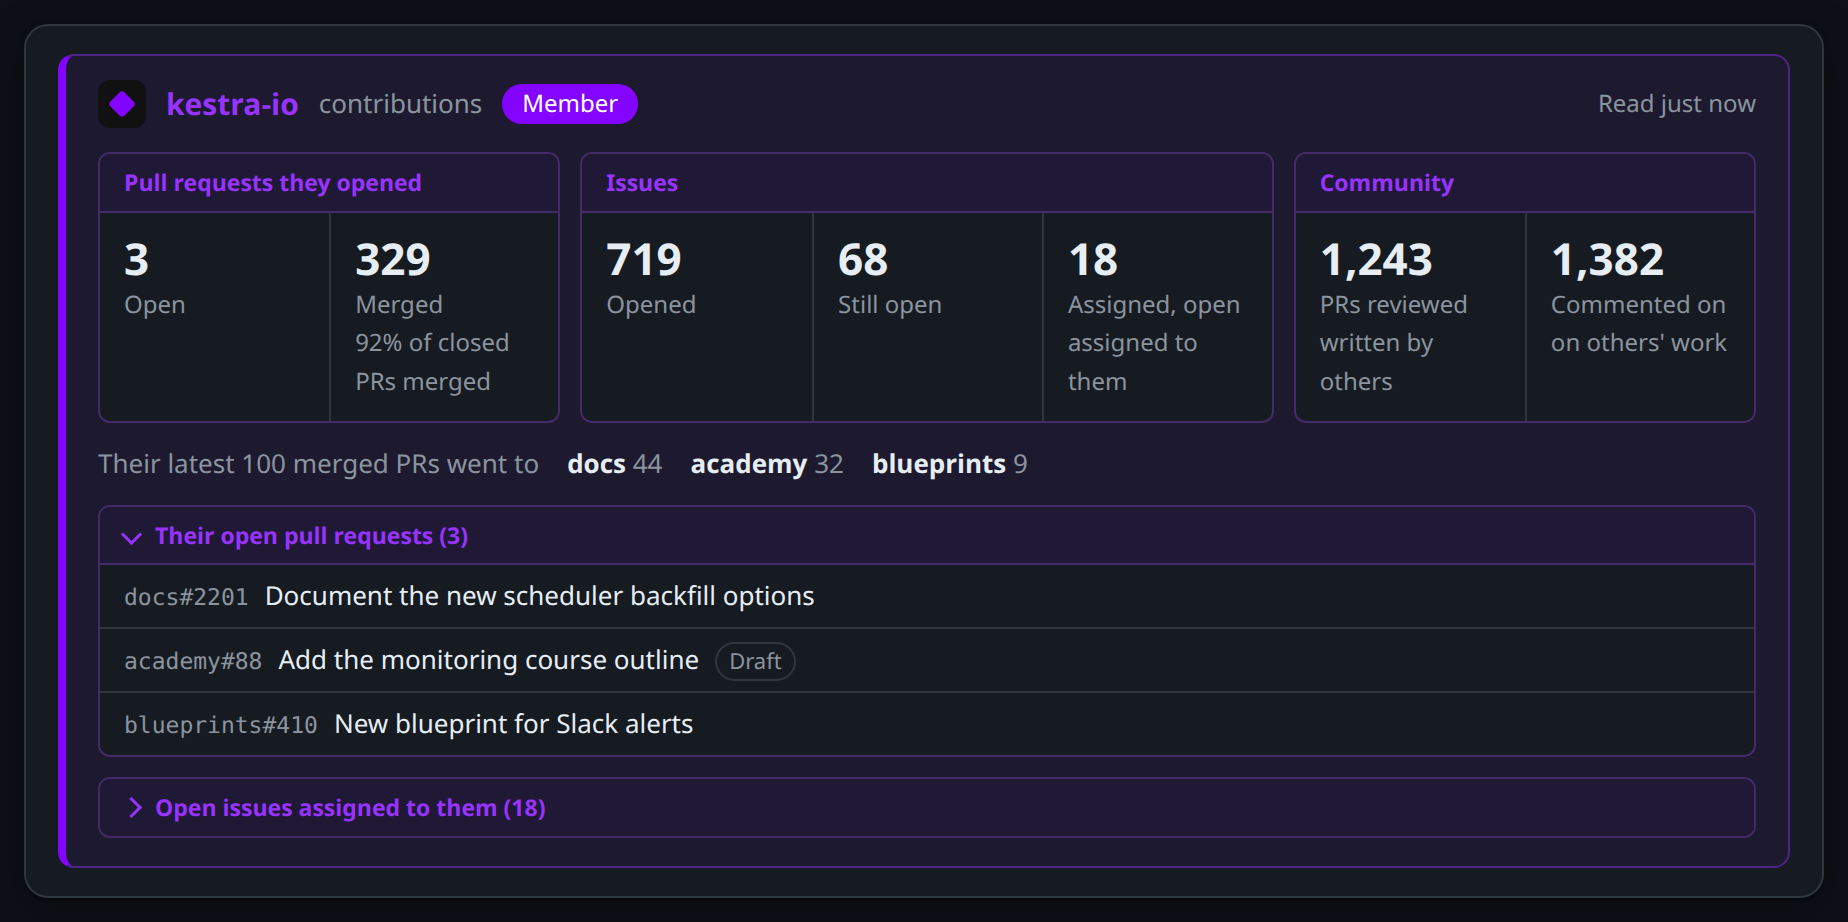
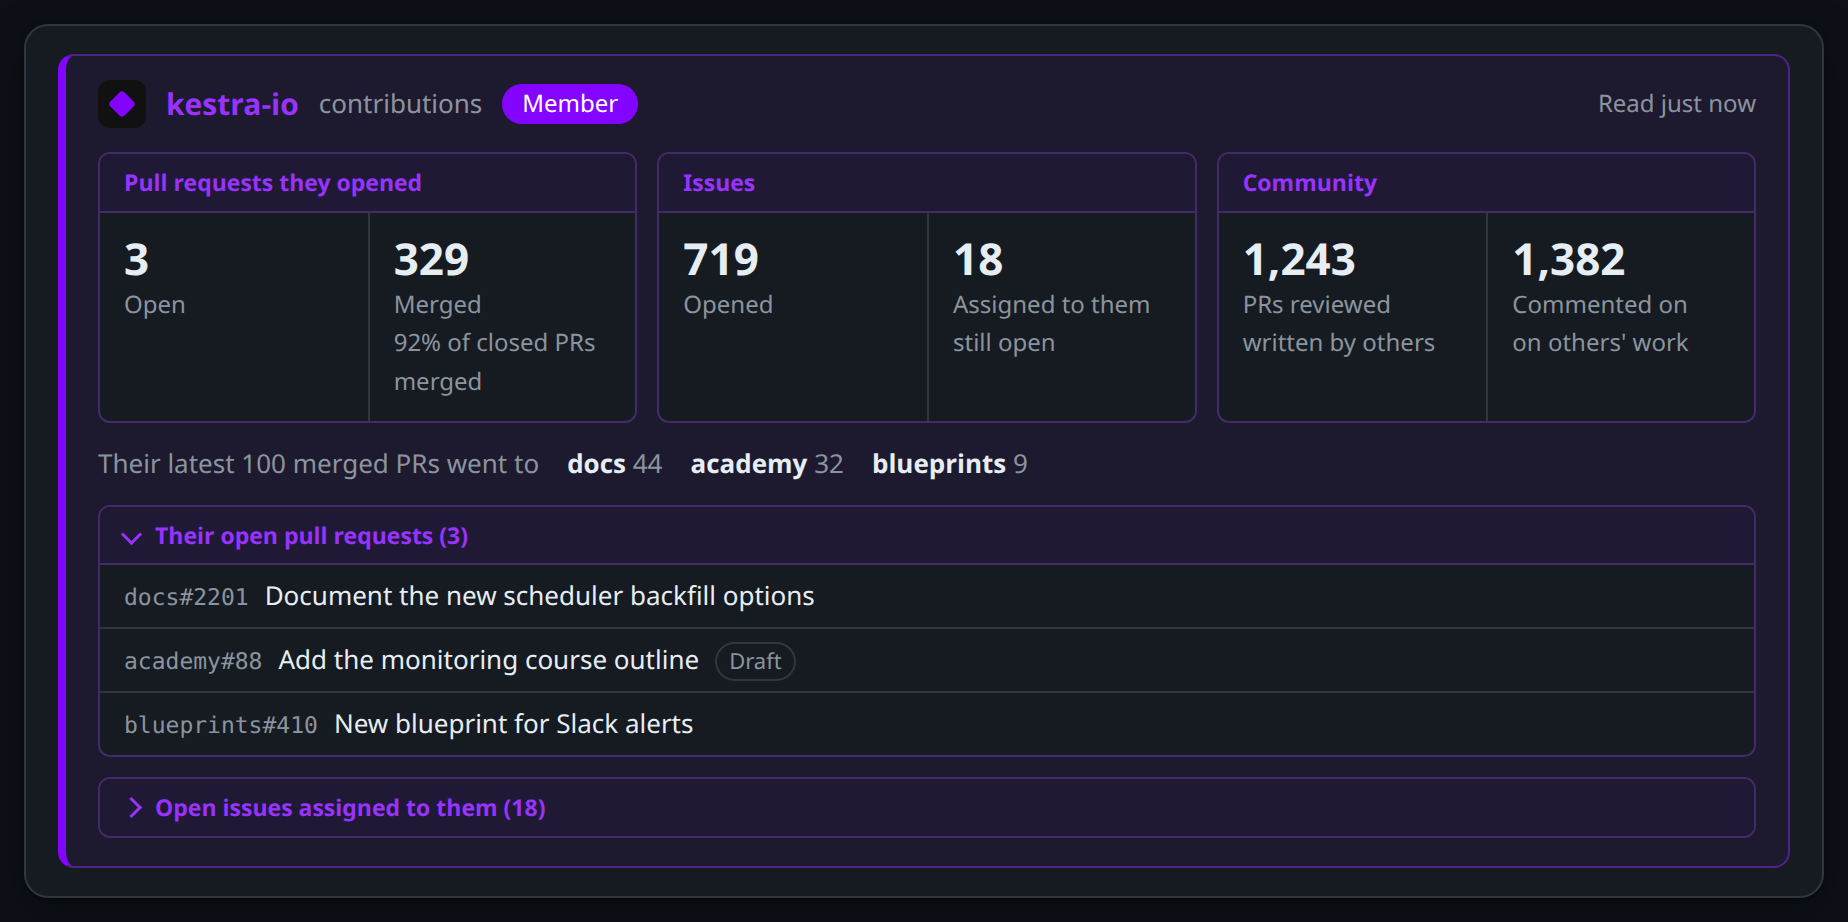
fix(profiles): drop the still open tile and name the assigned tile for what it counts
The issues group showed opened and still open next to a tile whose label read assigned, open and then assigned to them underneath, which repeated itself and did not say what the number was.

- Remove the still open tile, which sat awkwardly beside the opened one
- Call the third tile assigned to them and say still open under it
- Update the settings text, the README, the site mock-up, the example images and the changelog

diff --git a/docs/index.html b/docs/index.html
@@ -599,13 +599,13 @@
       <p class="example-caption">The card belongs to the third row, opened by pressing its button, and priya-s is a member of the organization. The limit is 1 here, so the amber count says four issues are assigned and three pull requests are open; it fills in when that second number is zero.</p>
 
       <h3 style="margin-top:28px">Profile panel</h3>
-      <p class="muted" style="font-size:14px">At the top of a person's profile, a panel for each organization you name, in that organization's colours where it has some. It shows what the person has done there: in three groups, pull requests (open, merged, with the share of their closed pull requests that were merged), issues (opened, still open, assigned and open) and community (pull requests reviewed, issues and pull requests commented on), each number linking to the matching GitHub search. Under them, a line saying which repositories their latest hundred merged pull requests went to, and two accordions, one of their open pull requests and one of the open issues assigned to them, closed at first and showing up to five rows when opened, the rest below a scroll. A status beside the name says whether they are a member of the organization, a regular contributor or a contributor. It is read once per person and organization when the profile opens, in one request, and kept until the tab is closed. Off by default; name the organizations in the settings.</p>
+      <p class="muted" style="font-size:14px">At the top of a person's profile, a panel for each organization you name, in that organization's colours where it has some. It shows what the person has done there: in three groups, pull requests (open, merged, with the share of their closed pull requests that were merged), issues (opened, and assigned to them and still open) and community (pull requests reviewed, issues and pull requests commented on), each number linking to the matching GitHub search. Under them, a line saying which repositories their latest hundred merged pull requests went to, and two accordions, one of their open pull requests and one of the open issues assigned to them, closed at first and showing up to five rows when opened, the rest below a scroll. A status beside the name says whether they are a member of the organization, a regular contributor or a contributor. It is read once per person and organization when the profile opens, in one request, and kept until the tab is closed. Off by default; name the organizations in the settings.</p>
       <div class="panel gh-card mock-profile" id="ex-profile" style="max-width:900px;padding:14px 16px">
         <div class="org">
           <div class="hd"><span class="lg"><i></i></span><span class="ti">kestra-io</span><span class="sb">contributions</span><span class="tg">Member</span><span class="ag">Read just now</span></div>
           <div class="st">
             <div class="gr" style="--n:2"><div class="gh2">Pull requests they opened</div><div class="ts" style="--n:2"><div class="tl"><span class="nm">3</span><span class="lb">Open</span></div><div class="tl"><span class="nm">329</span><span class="lb">Merged</span><span class="lb">92% of closed PRs merged</span></div></div></div>
-            <div class="gr" style="--n:3"><div class="gh2">Issues</div><div class="ts" style="--n:3"><div class="tl"><span class="nm">719</span><span class="lb">Opened</span></div><div class="tl"><span class="nm">68</span><span class="lb">Still open</span></div><div class="tl"><span class="nm">18</span><span class="lb">Assigned, open</span><span class="lb">assigned to them</span></div></div></div>
+            <div class="gr" style="--n:2"><div class="gh2">Issues</div><div class="ts" style="--n:2"><div class="tl"><span class="nm">719</span><span class="lb">Opened</span></div><div class="tl"><span class="nm">18</span><span class="lb">Assigned to them</span><span class="lb">still open</span></div></div></div>
             <div class="gr" style="--n:2"><div class="gh2">Community</div><div class="ts" style="--n:2"><div class="tl"><span class="nm">1,243</span><span class="lb">PRs reviewed</span><span class="lb">written by others</span></div><div class="tl"><span class="nm">1,382</span><span class="lb">Commented on</span><span class="lb">on others' work</span></div></div></div>
           </div>
           <div class="wh"><span>Their latest 100 merged PRs went to</span><span><b>docs</b> 44</span><span><b>academy</b> 32</span><span><b>blueprints</b> 9</span></div>

diff --git a/content.js b/content.js
@@ -1380,8 +1380,7 @@
     ]],
     ["Issues", [
       ["Opened", "issues", "Issues they opened", (l) => `is:issue author:${l}`],
-      ["Still open", "issuesOpen", "Issues they opened that are still open", (l) => `is:issue is:open author:${l}`],
-      ["Assigned, open", "assignedOpen", "Issues assigned to them that are still open", (l) => `is:issue is:open assignee:${l}`, () => "assigned to them"]
+      ["Assigned to them", "assignedOpen", "Issues assigned to them that are still open", (l) => `is:issue is:open assignee:${l}`, () => "still open"]
     ]],
     ["Community", [
       ["PRs reviewed", "reviewed", "Pull requests by other people that they reviewed", (l) => `is:pr reviewed-by:${l} -author:${l}`, () => "written by others"],

diff --git a/CHANGELOG.md b/CHANGELOG.md
@@ -6,7 +6,7 @@ All notable changes to this project are documented here. The format follows [Kee
 
 ### Added
 
-- **Organization panel**: a panel at the top of a person's profile for each organization you name, in the organization's colours where it has some (violet for `kestra-io`). Three groups of numbers, each linking to the matching search with a tooltip saying what it counts: pull requests (open, merged with the share of closed ones that were merged), issues (opened, still open, assigned and open) and community (pull requests reviewed, issues and pull requests commented on). Under them, the three repositories their latest hundred merged pull requests went to and two accordions, their open pull requests and the open issues assigned to them, closed at first with up to five rows when opened and the rest below a scroll, and a status for membership or experience. Read once per person and organization in one request and kept until the tab is closed. Off by default, set on the Contributors tab.
+- **Organization panel**: a panel at the top of a person's profile for each organization you name, in the organization's colours where it has some (violet for `kestra-io`). Three groups of numbers, each linking to the matching search with a tooltip saying what it counts: pull requests (open, merged with the share of closed ones that were merged), issues (opened, and assigned to them and still open) and community (pull requests reviewed, issues and pull requests commented on). Under them, the three repositories their latest hundred merged pull requests went to and two accordions, their open pull requests and the open issues assigned to them, closed at first with up to five rows when opened and the rest below a scroll, and a status for membership or experience. Read once per person and organization in one request and kept until the tab is closed. Off by default, set on the Contributors tab.
 - **Contributor status**: the contributor load mark is now a button. Pressed, it reads the person and becomes their status: new contributor (no merged pull request in the organization), first PR here (merged elsewhere in the organization, none in this repository), returning, or regular from a number of merged pull requests in the repository you set, 5 by default. The card it opens has open, merged and closed-without-merge pull requests and assigned and finished issues, each for the repository and for the whole organization and each linking to the matching search, above the open issues the person holds with the pull request that closes each.
 - When a person cannot be looked up, the card and the button's tooltip now say why, a missing token, a rejected one or whatever GitHub answered, and a count GitHub did not return shows as a dash instead of failing the whole read.
 - The two columns of counts in the card are headed **This repo** and **Organization**, with the full names on hover, since a repository and its organization often have near-identical names.
